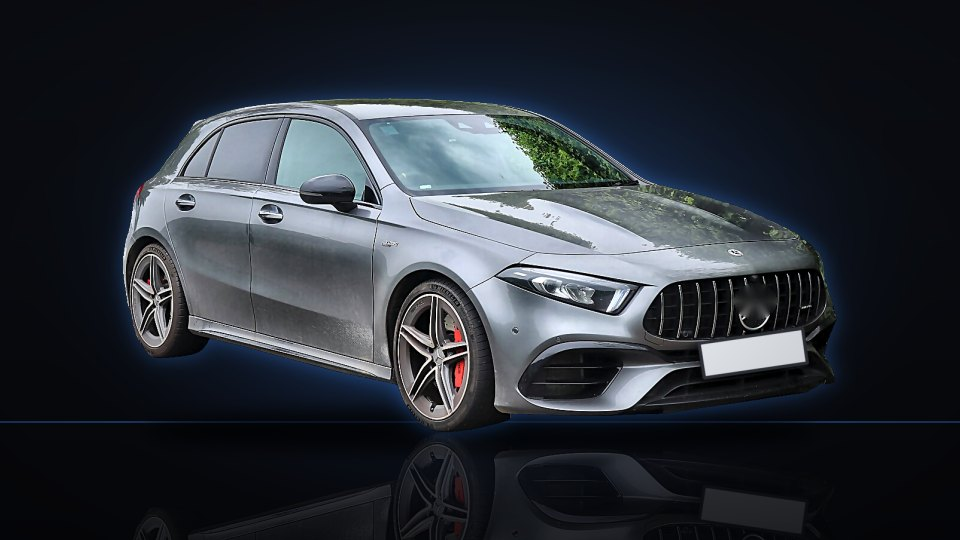
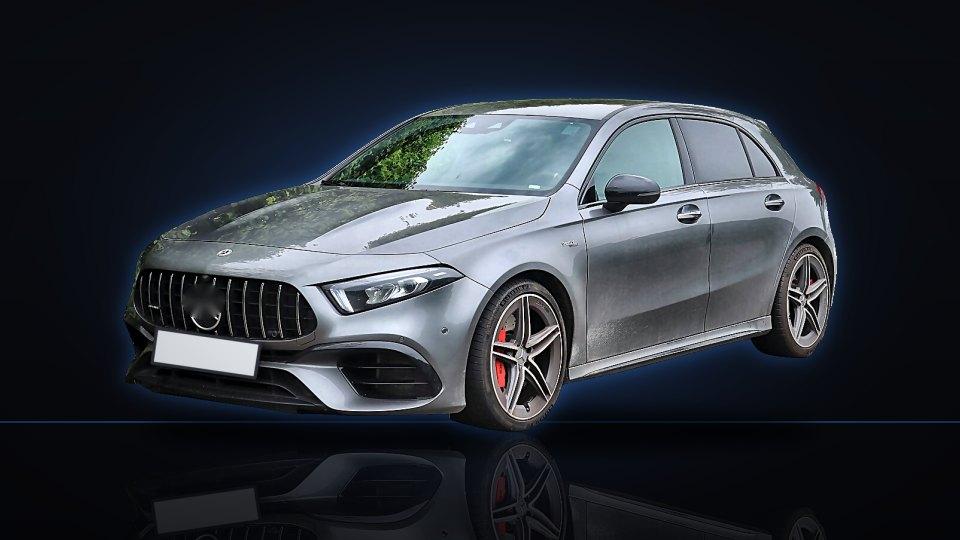
Немецкий контейнер: все машины в одном ракурсе (перед и бок, мордой влево), новые фото для 9 машин
Claude-Session: https://claude.ai/code/session_019UALasUKNcW9S6Aj9a22dA

diff --git a/web/src/photos.ts b/web/src/photos.ts
@@ -1,5 +1,5 @@
 // Создано сборкой фото-графики — машины с игровой графикой по фото (id → версия файла).
-export const PHOTOS: Record<number, string> = {"9":"ccc08746","10":"f7f7f237","11":"215f30eb","12":"afd3f172","13":"434bba95","14":"f17c49c6","15":"1e030aee","16":"1eb2587c","101":"3c1aa339","102":"dc140ac9","103":"f76febdd","104":"74af73ae","105":"7927d788","106":"83ca4770","107":"b4adc88d","108":"f81201cc","109":"d4b8ef93","110":"de417d85","111":"e0bb4b76","112":"e232e219","113":"a7bdbc95","114":"863e5e6f","115":"31965b97","116":"2bb82fd6","117":"09815ad5","118":"e263ebba","119":"b1a6cf23","120":"16d55f22","121":"d799912f","122":"814534c2","123":"56cda863","124":"bb28b20c","125":"a378bea3","126":"0e9c22f5","127":"3e7c4d27","128":"48a5528c","129":"34b9ce83","130":"15b9079f","131":"4947ba5f","132":"2bb91192","133":"055194e8","134":"0927929f","135":"354c30f4","136":"12673ce4","137":"3d102162","138":"74c7528f","139":"b89bcbbe","140":"8c401cb2","141":"19f34a79","142":"2761d287"};
+export const PHOTOS: Record<number, string> = {"9":"c35ca22d","10":"f7f7f237","11":"7c874829","12":"5a0d84ec","13":"2f8f3659","14":"57ecc371","15":"1e030aee","16":"847b0606","101":"48bacdff","102":"dc140ac9","103":"13b28daa","104":"74af73ae","105":"7927d788","106":"3d038ed1","107":"b4adc88d","108":"ae95b91d","109":"d4b8ef93","110":"de417d85","111":"e0bb4b76","112":"7eba03f5","113":"cc0f75c0","114":"863e5e6f","115":"31965b97","116":"2bb82fd6","117":"09815ad5","118":"8c9408cd","119":"b1a6cf23","120":"ef7db23d","121":"d799912f","122":"c9bf187a","123":"56cda863","124":"a22dbcb6","125":"f932f6d9","126":"cabc2a31","127":"68bdde8d","128":"ad8bdfb5","129":"b87462cb","130":"15b9079f","131":"4947ba5f","132":"2bb91192","133":"055194e8","134":"0927929f","135":"354c30f4","136":"12673ce4","137":"c396812b","138":"74c7528f","139":"b89bcbbe","140":"8c401cb2","141":"19f34a79","142":"2761d287"};
 export const CREDITS: { car: string; author: string; license: string; page: string }[] = [
  {
   "car": "Folkswagen Pollo VI",
@@ -23,7 +23,7 @@ export const CREDITS: { car: string; author: string; license: string; page: stri
   "car": "Folkswagen T-Rok",
   "author": "",
   "license": "CC BY-SA",
-  "page": "https://commons.wikimedia.org/wiki/File:VW_T-Roc_(front_view)_%E2%80%93_IAA_2017_%E2%80%93_by_Nicolas_V%C3%B6lcker.jpg"
+  "page": "https://commons.wikimedia.org/wiki/File:Volkswagen_T-Roc_(2021)_1X7A0330.jpg"
  },
  {
   "car": "Folkswagen T-Kross",
@@ -41,7 +41,7 @@ export const CREDITS: { car: string; author: string; license: string; page: stri
   "car": "Folkswagen Passant B8",
   "author": "",
   "license": "CC BY-SA",
-  "page": "https://commons.wikimedia.org/wiki/File:2020_Volkswagen_Passat_Business_140TSI_front.jpg"
+  "page": "https://commons.wikimedia.org/wiki/File:Volkswagen_Passat_(B8)_%E2%80%93_front_view_(2017).jpg"
  },
  {
   "car": "Folkswagen Turan II",
@@ -53,7 +53,7 @@ export const CREDITS: { car: string; author: string; license: string; page: stri
   "car": "Folkswagen AiDi.3",
   "author": "",
   "license": "CC BY-SA",
-  "page": "https://commons.wikimedia.org/wiki/File:VW_ID._2all%2C_IAA_Open_Space_2023%2C_Munich_(P1110993).jpg"
+  "page": "https://commons.wikimedia.org/wiki/File:Volkswagen_ID.3_(2023)_IMG_7973.jpg"
  },
  {
   "car": "Folkswagen AiDi.4",
@@ -119,7 +119,7 @@ export const CREDITS: { car: string; author: string; license: string; page: stri
   "car": "Audy A-4 B9",
   "author": "",
   "license": "CC BY-SA",
-  "page": "https://commons.wikimedia.org/wiki/File:Audi_A4_B9_sedans_(FL)_1X7A6817.jpg"
+  "page": "https://commons.wikimedia.org/wiki/File:2023_Audi_A4_B9_Avant_Allroad_-_right_front_exterior_view.jpg"
  },
  {
   "car": "Audy Q-3",
@@ -185,13 +185,13 @@ export const CREDITS: { car: string; author: string; license: string; page: stri
   "car": "Folkswagen Golph GTi 8",
   "author": "",
   "license": "CC BY-SA",
-  "page": "https://commons.wikimedia.org/wiki/File:VOLKSWAGEN_GOLF_GTI_(Mk8_CD1)_China.jpg"
+  "page": "https://commons.wikimedia.org/wiki/File:Volkswagen_Golf_VIII_GTI_Clubsport_45_IMG_4884.jpg"
  },
  {
   "car": "Folkswagen Golph R 8",
   "author": "",
   "license": "CC BY-SA",
-  "page": "https://commons.wikimedia.org/wiki/File:VOLKSWAGEN_GOLF_R-LINE_(Mk8_CD1)_China_(17).jpg"
+  "page": "https://commons.wikimedia.org/wiki/File:Volkswagen_GOLF_eTSI_R-Line_(3AA-CDDFY)_front.jpg"
  },
  {
   "car": "Folkswagen Arteonn",
@@ -269,7 +269,7 @@ export const CREDITS: { car: string; author: string; license: string; page: stri
   "car": "BMV M-5 F90",
   "author": "",
   "license": "CC BY-SA",
-  "page": "https://commons.wikimedia.org/wiki/File:2018_BMW_M5_front.jpg"
+  "page": "https://commons.wikimedia.org/wiki/File:BMW_M5_Competition_(F90)_front.jpg"
  },
  {
   "car": "Mersedes-AMX GT",

diff --git a/tgcloud/lib/photo_manifest.js b/tgcloud/lib/photo_manifest.js
@@ -1,2 +1,2 @@
 // Создано сборкой фото-графики — машины с игровой графикой по фото (id → версия файла).
-export const PHOTOS = {"9":"ccc08746","10":"f7f7f237","11":"215f30eb","12":"afd3f172","13":"434bba95","14":"f17c49c6","15":"1e030aee","16":"1eb2587c","101":"3c1aa339","102":"dc140ac9","103":"f76febdd","104":"74af73ae","105":"7927d788","106":"83ca4770","107":"b4adc88d","108":"f81201cc","109":"d4b8ef93","110":"de417d85","111":"e0bb4b76","112":"e232e219","113":"a7bdbc95","114":"863e5e6f","115":"31965b97","116":"2bb82fd6","117":"09815ad5","118":"e263ebba","119":"b1a6cf23","120":"16d55f22","121":"d799912f","122":"814534c2","123":"56cda863","124":"bb28b20c","125":"a378bea3","126":"0e9c22f5","127":"3e7c4d27","128":"48a5528c","129":"34b9ce83","130":"15b9079f","131":"4947ba5f","132":"2bb91192","133":"055194e8","134":"0927929f","135":"354c30f4","136":"12673ce4","137":"3d102162","138":"74c7528f","139":"b89bcbbe","140":"8c401cb2","141":"19f34a79","142":"2761d287"};
+export const PHOTOS = {"9":"c35ca22d","10":"f7f7f237","11":"7c874829","12":"5a0d84ec","13":"2f8f3659","14":"57ecc371","15":"1e030aee","16":"847b0606","101":"48bacdff","102":"dc140ac9","103":"13b28daa","104":"74af73ae","105":"7927d788","106":"3d038ed1","107":"b4adc88d","108":"ae95b91d","109":"d4b8ef93","110":"de417d85","111":"e0bb4b76","112":"7eba03f5","113":"cc0f75c0","114":"863e5e6f","115":"31965b97","116":"2bb82fd6","117":"09815ad5","118":"8c9408cd","119":"b1a6cf23","120":"ef7db23d","121":"d799912f","122":"c9bf187a","123":"56cda863","124":"a22dbcb6","125":"f932f6d9","126":"cabc2a31","127":"68bdde8d","128":"ad8bdfb5","129":"b87462cb","130":"15b9079f","131":"4947ba5f","132":"2bb91192","133":"055194e8","134":"0927929f","135":"354c30f4","136":"12673ce4","137":"c396812b","138":"74c7528f","139":"b89bcbbe","140":"8c401cb2","141":"19f34a79","142":"2761d287"};
